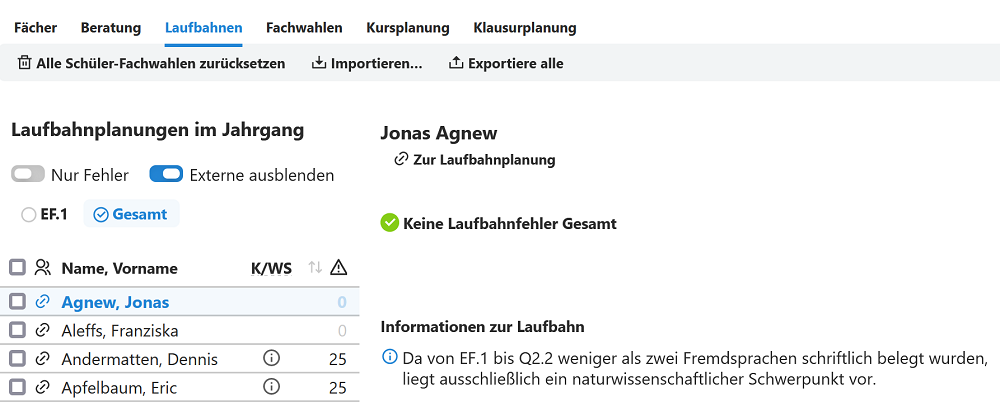
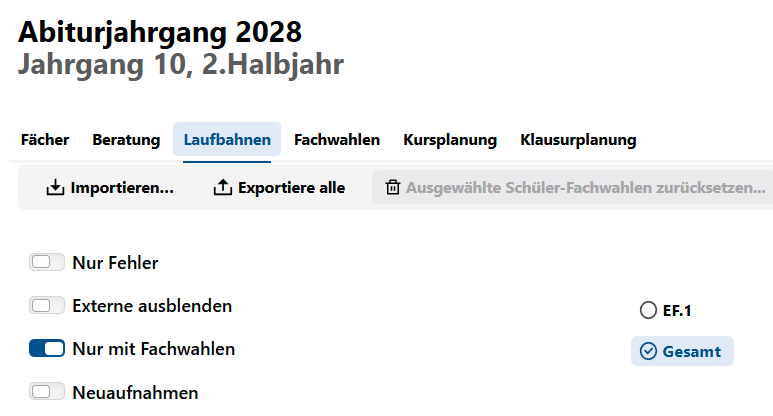
Text und Screenshot an den aktuellen Stand angepasst; neuen Screenshot für den Link eingebaut

diff --git a/webclient/gost/laufbahn/index.md b/webclient/gost/laufbahn/index.md
@@ -1,19 +1,22 @@
 # Laufbahnen
 
-![SVWS_Oberstufe_Laufbahn_1](./graphics/SVWS_Oberstufe_Laufbahn_1.png)  
+![Der Filter zur Anzeige der Schüler](./graphics/SVWS_Oberstufe_Laufbahn_1.png "Nutzen Sie die Schalter, um auf die gewünschten Schülermengen zu filtern.")  
 
-Es wird die Schülerliste angezeigt, i.d.R. sind anfangs alle Laufbahnen noch unvollständig und daher **mit Fehlern**.
-Später kann durch den Schieberegeler gewählt werden, ob  
+Es wird die Schülerliste angezeigt, in der Regel sind anfangs alle Laufbahnen noch unvollständig und daher **mit Fehlern**.
 
-+ **alle** Schüler
-+ nur welche **mit Laufbahnfehlern**
-+ zusätzlich auch **Externe** (Koop-)Schüler  
+Später kann durch die Schieberegeler gewählt werden, welche Schülermenge angezeigt werden soll.  
 
-angezeigt werden sollen.  
++ **alle** Schüler anzeigt werden. Dies ist der Status, wenn alle Regler ausgeschaltet sind.
++ **Nur Fehler** zeigt nur die Wahlen mit Laufbahnfehlern
++ Über **Externe ausblenden** werden externe Schüler ausgeblendet, die zwar in der Datenbank als Schüler des Jahrgangs erfasst sind, für die aber an dieser Schule keine Laufbahnwahlen verwaltet werden.
+* Der Schalter **Nur mit Fachwahlen** zeigt nur Schüler, die auch gewählt haben. Hierüber lassen sich etwa Schüler der kommenden EF ausblenden, die aber nicht in die EF wechseln.
+* Über **Neuaufnamen** werden auch neue Schüler angezeigt, die noch nicht den Status **aktiv** haben - zum Beispiel Schüler die für die kommende EF aufgenommen wurden. 
 
-Jede Schülerlaufbahnwahl kann direkt in svws-Client (interne Bearbeitung) oder per WebLuPO (externe Bearbeitung) durchgeführt werden.  
+Jede Schülerlaufbahnwahl kann direkt intern im SVWS-Client oder extern per WebLuPO durchgeführt werden. Nach dem Einlesen der Wahlen lassen sich dieser im SVWS-Client vollständig weiter verwalten.
 
-Intern gelangt man per **Zur Laufbahnplanung** in die individuelle Laufbahnplanung des jeweiligen Schülers.  
+![Nutzen Sie dsa Linksymbol, um direkt zur individuellen Laufbahn zu springen](./graphics/SVWS_Oberstufe_Laufbahn_Link.png "Nutzen Sie dsa Linksymbol, um direkt zur individuellen Laufbahn zu springen.")
+
+Im Client gelangt man über das Linksymbol 🔗 **Zur Laufbahnplanung** in die individuelle Laufbahnplanung des jeweiligen Schülers.  
 
 ## Export in WebLuPO
 
